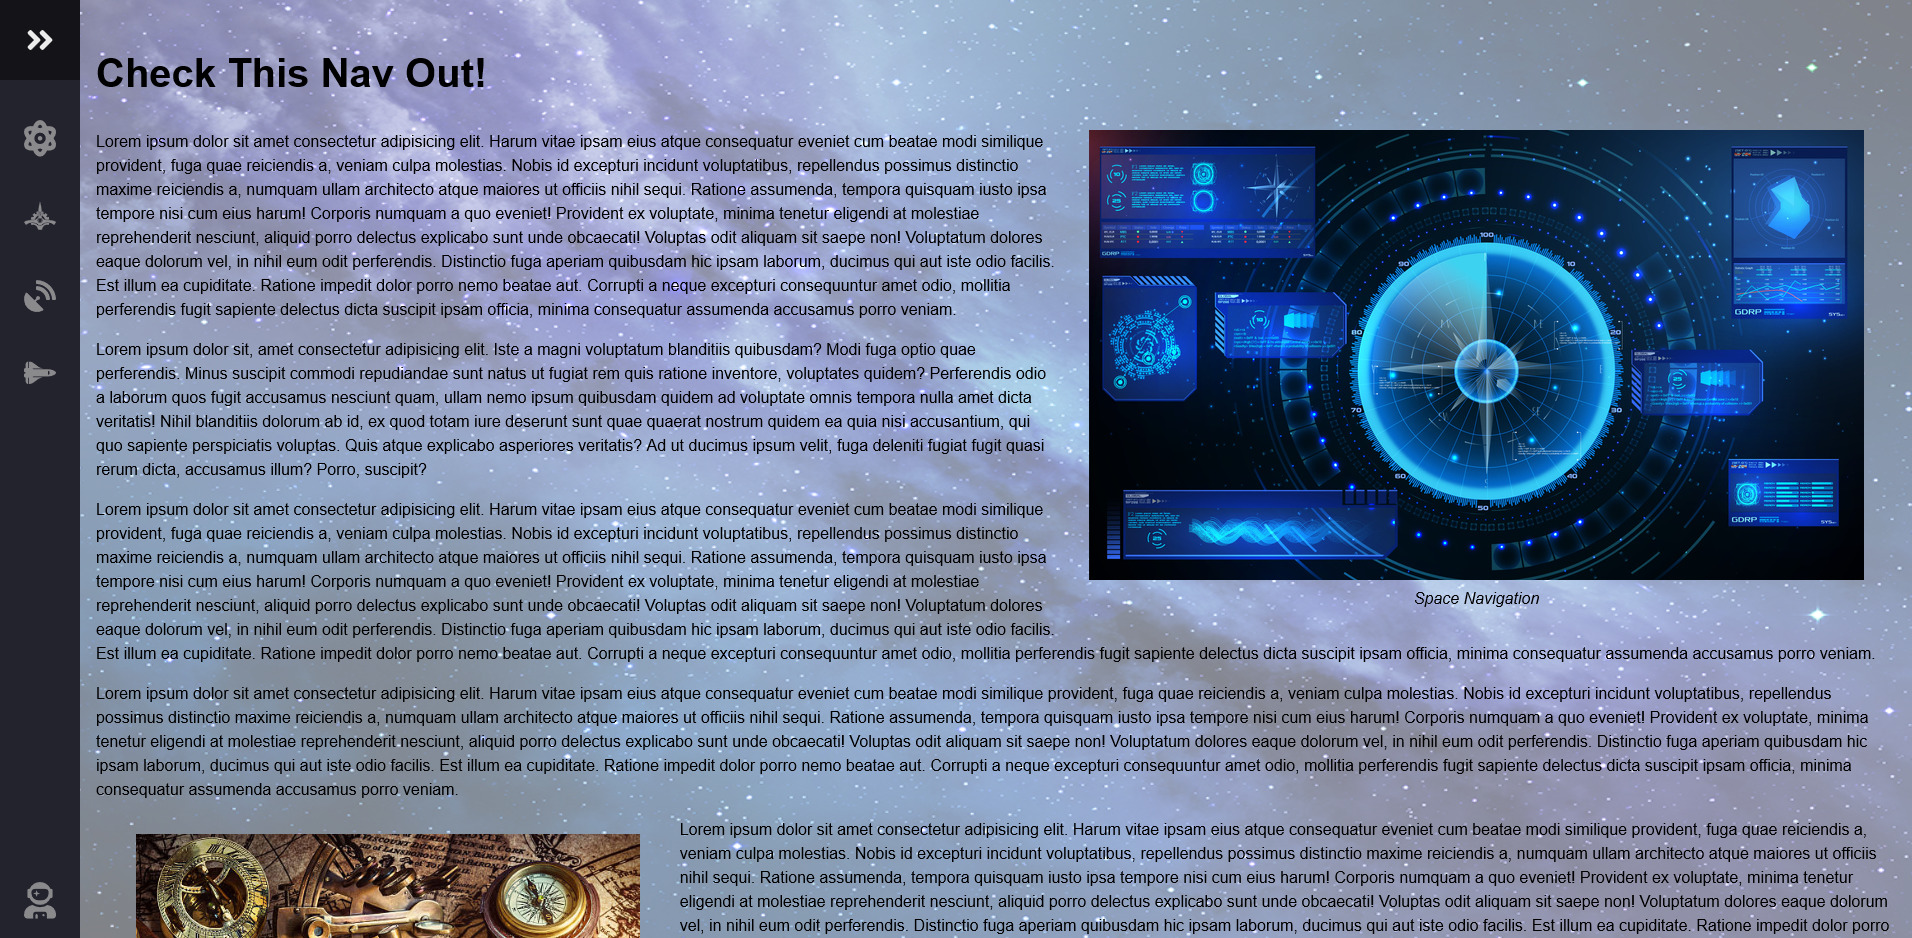
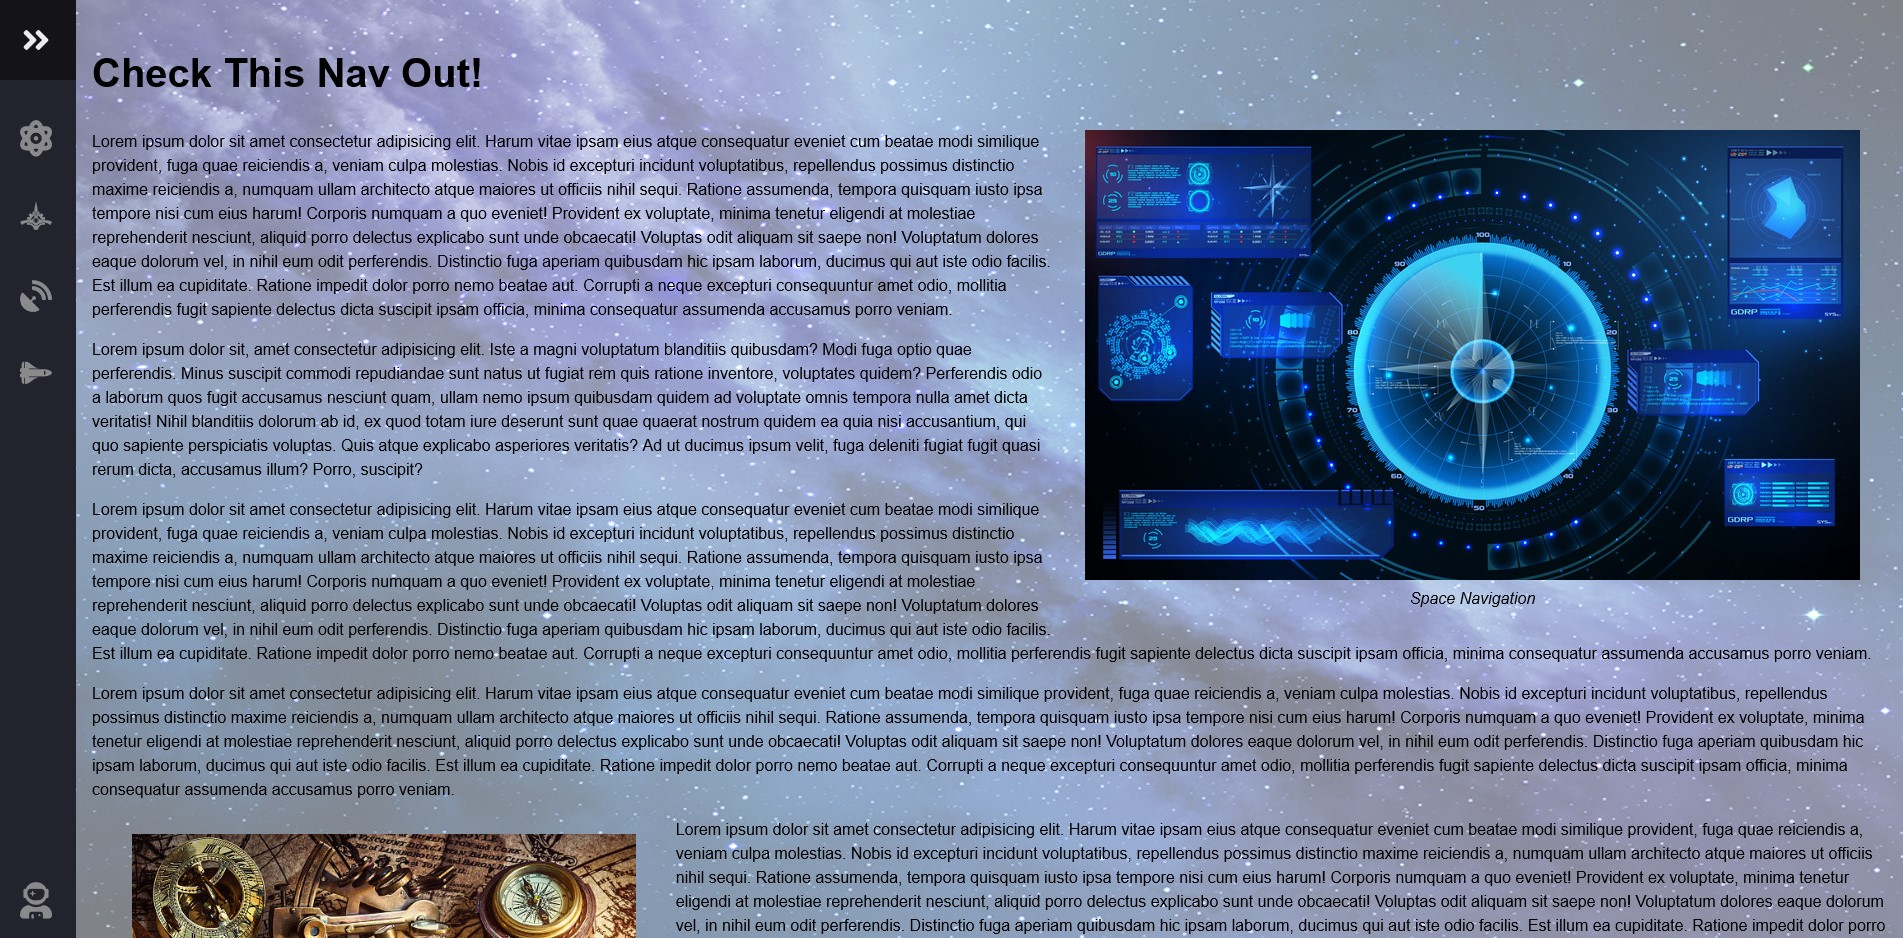
implemented the layout for min screen width >= 760

diff --git a/src/styles/main.scss b/src/styles/main.scss
@@ -71,7 +71,7 @@ a.externalLink::after {
 
     // using _hamburger.scss partial for hamburger icon
     #navContainer {
-      --main-menu-width: 65vw;
+      --main-menu-width: 25rem;
 
       pointer-events: none;
       position: absolute;
@@ -134,7 +134,7 @@ a.externalLink::after {
       }
 
       nav#menu.open {
-        box-shadow: -2rem 2rem 3rem 1rem rgba(0, 0, 0, 0.75);
+        box-shadow: -2rem 2rem 3rem rgba(0, 0, 0, 0.75);
         right: 0;
       }
     }
@@ -159,6 +159,8 @@ a.externalLink::after {
 
       img {
         max-width: 100%;
+        max-height: 25%;
+        object-fit: contain;
 
         border: 1px solid rgba(theme.$bg-secondary, 0.2);
         box-shadow:
@@ -200,22 +202,32 @@ a.externalLink::after {
   }
 }
 
-//// Screen width >= 650 //////////////////////////////////////////
+//// Screen width >= 760 //////////////////////////////////////////
 
-@media screen and (min-width: 650px) {
-  ul#portfolio {
-    display: grid;
-    grid-template-columns: repeat(2, 1fr);
+@media screen and (min-width: 760px) {
+  #mainSection {
+    ul#portfolio {
+      display: grid;
+      grid-template-columns: repeat(2, 1fr);
+      grid-template-rows: min-content;
+      gap: 0.5rem;
 
-    li {
-      margin: 0.5rem;
+      li.portfolioItem {
+        display: flex;
+        flex-direction: column;
+
+        img {
+          // flex: 1;
+          max-height: 50%;
+        }
+      }
     }
   }
 }
 
-//// Screen width >= 1024 ////////////////////////////////////////
+//// Screen width >= 1350 ////////////////////////////////////////
 
-@media screen and (min-width: 1024px) {
+@media screen and (min-width: 1350px) {
   abbr {
     text-decoration: underline dotted rgb(51, 51, 51);
   }

diff --git a/docs/styles/main.css b/docs/styles/main.css
@@ -181,7 +181,7 @@ a.externalLink::after {
   margin-left: auto;
 }
 #pageHeaderSection #mainMenu #navContainer {
-  --main-menu-width: 65vw;
+  --main-menu-width: 25rem;
   pointer-events: none;
   position: absolute;
   top: var(--headerHeight);
@@ -231,7 +231,7 @@ a.externalLink::after {
   margin: 0 1rem;
 }
 #pageHeaderSection #mainMenu #navContainer nav#menu.open {
-  box-shadow: -2rem 2rem 3rem 1rem rgba(0, 0, 0, 0.75);
+  box-shadow: -2rem 2rem 3rem rgba(0, 0, 0, 0.75);
   right: 0;
 }
 
@@ -249,6 +249,8 @@ a.externalLink::after {
 }
 #mainSection #portfolio li.portfolioItem img {
   max-width: 100%;
+  max-height: 25%;
+  object-fit: contain;
   border: 1px solid rgba(51, 51, 51, 0.2);
   box-shadow: 2px 2px 3px #333333, -2px 2px 3px #333333;
 }
@@ -276,16 +278,22 @@ a.externalLink::after {
   list-style-type: disc;
 }
 
-@media screen and (min-width: 650px) {
-  ul#portfolio {
+@media screen and (min-width: 760px) {
+  #mainSection ul#portfolio {
     display: grid;
     grid-template-columns: repeat(2, 1fr);
+    grid-template-rows: min-content;
+    gap: 0.5rem;
   }
-  ul#portfolio li {
-    margin: 0.5rem;
+  #mainSection ul#portfolio li.portfolioItem {
+    display: flex;
+    flex-direction: column;
+  }
+  #mainSection ul#portfolio li.portfolioItem img {
+    max-height: 50%;
   }
 }
-@media screen and (min-width: 1024px) {
+@media screen and (min-width: 1350px) {
   abbr {
     text-decoration: underline dotted #333333;
   }

diff --git a/index.html b/index.html
@@ -120,7 +120,7 @@
         <p>An application to facilitate the creation of a shopping list. It
           provides a printable shopping list categorized by department to make
           shopping more efficient and minimize movement through the store. The
-          first application I built from the ground up using Angular</p>
+          first application I built from the ground up using Angular.</p>
         <div class="techLists">
           <section class="technologies">
             <h3>Technologies Used</h3>
@@ -149,7 +149,7 @@
         <a href="https://wayloncn-animated-side-nav-responsive.vercel.app"
            target="_blank">https://wayloncn-animated-side-nav-responsive.vercel.app</a>
         <p>
-          An animated side navigation bar. I hadn't with CSS transforms
+          An animated side navigation bar. I hadn't worked with CSS transitions
           yet, and a <a class="externalLink"
              href="https://www.youtube.com/watch?v=biOMz4puGt8"
              target="_blank">Fireship video</a>
